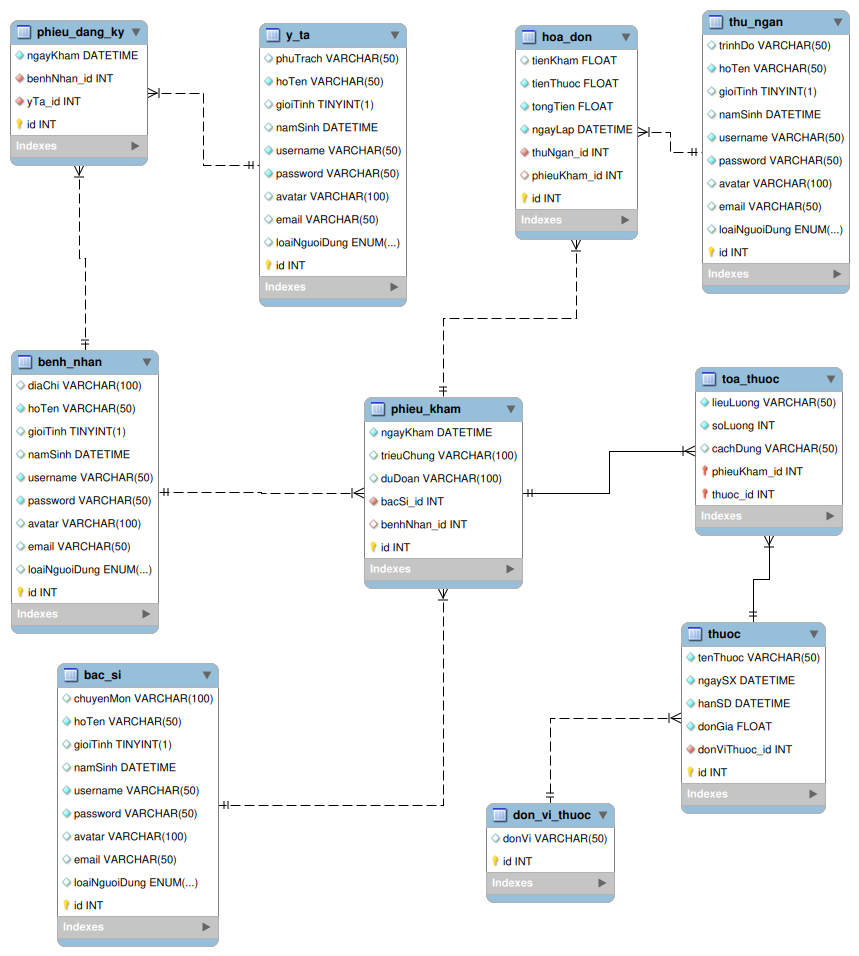
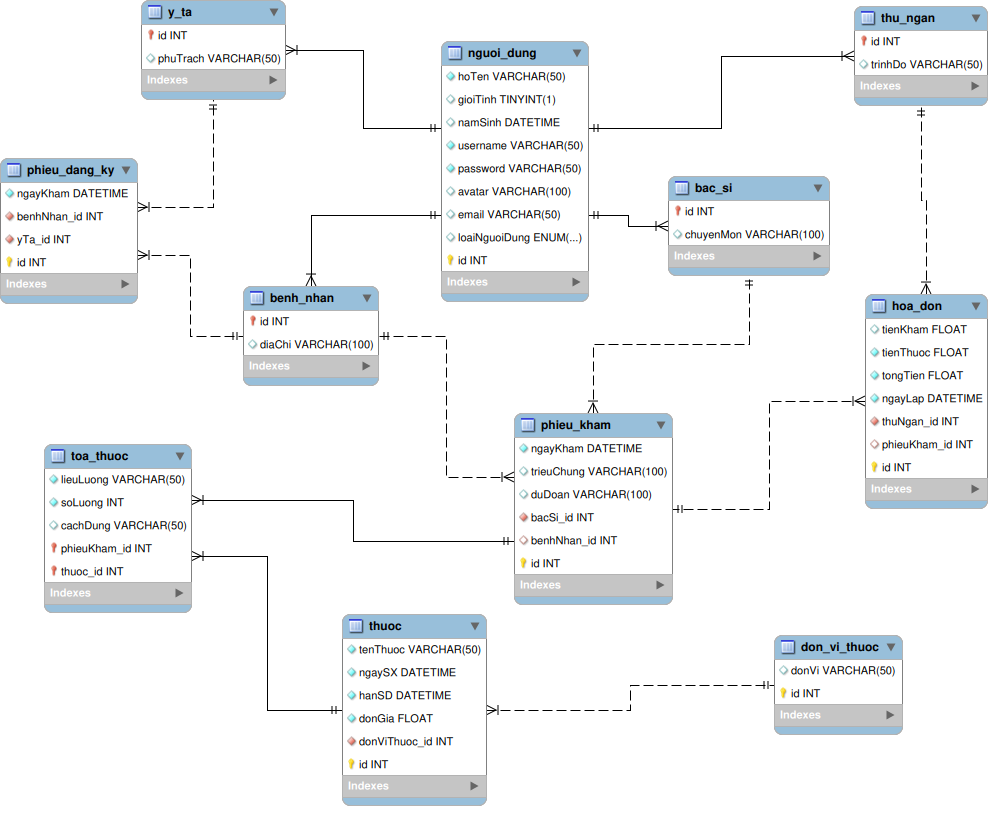
[Lan] - update login va register

diff --git a/server/server_app/templates/layout/header.html b/server/server_app/templates/layout/header.html
@@ -5,12 +5,12 @@
         <span class="self-center text-2xl font-semibold whitespace-nowrap dark:text-white">LT Clinic</span>
     </a>
     <div class="flex items-center md:order-2 space-x-3 md:space-x-0 rtl:space-x-reverse">
-        <button type="button" class="flex text-sm bg-gray-800 rounded-full md:me-0 focus:ring-4 focus:ring-gray-300 dark:focus:ring-gray-600" id="user-menu-button" aria-expanded="false" data-dropdown-toggle="user-dropdown" data-dropdown-placement="bottom">
+        <!-- <button type="button" class="flex text-sm bg-gray-800 rounded-full md:me-0 focus:ring-4 focus:ring-gray-300 dark:focus:ring-gray-600" id="user-menu-button" aria-expanded="false" data-dropdown-toggle="user-dropdown" data-dropdown-placement="bottom">
           <span class="sr-only">Open user menu</span>
           <img class="w-8 h-8 rounded-full" src="/docs/images/people/profile-picture-3.jpg" alt="user photo">
-        </button>
+        </button> -->
         <!-- User -->
-        <div class="z-50 hidden my-4 text-base list-none bg-white divide-y divide-gray-100 rounded-lg shadow dark:bg-gray-700 dark:divide-gray-600" id="user-dropdown">
+        <!-- <div class="z-50 hidden my-4 text-base list-none bg-white divide-y divide-gray-100 rounded-lg shadow dark:bg-gray-700 dark:divide-gray-600" id="user-dropdown">
           <div class="px-4 py-3">
             <span class="block text-sm text-gray-900 dark:text-white">Bonnie Green</span>
             <span class="block text-sm  text-gray-500 truncate dark:text-gray-400">name@flowbite.com</span>
@@ -29,7 +29,7 @@
               <a href="#" class="block px-4 py-2 text-sm text-gray-700 hover:bg-gray-100 dark:hover:bg-gray-600 dark:text-gray-200 dark:hover:text-white">Sign out</a>
             </li>
           </ul>
-        </div>
+        </div> -->
         <!--  -->
         <button data-collapse-toggle="navbar-user" type="button" class="inline-flex items-center p-2 w-10 h-10 justify-center text-sm text-gray-500 rounded-lg md:hidden hover:bg-gray-100 focus:outline-none focus:ring-2 focus:ring-gray-200 dark:text-gray-400 dark:hover:bg-gray-700 dark:focus:ring-gray-600" aria-controls="navbar-user" aria-expanded="false">
           <span class="sr-only">Open main menu</span>
@@ -49,12 +49,19 @@
           <li>
             <a href="#" class="block py-2 px-3 text-gray-900 rounded hover:bg-gray-100 md:hover:bg-transparent md:hover:text-blue-700 md:p-0 dark:text-white md:dark:hover:text-blue-500 dark:hover:bg-gray-700 dark:hover:text-white md:dark:hover:bg-transparent dark:border-gray-700">Thanh toán hóa đơn</a>
           </li>
+          {% if current_user.is_authenticated %}
+
           <li>
-            <a href="#" class="block py-2 px-3 text-gray-900 rounded hover:bg-gray-100 md:hover:bg-transparent md:hover:text-blue-700 md:p-0 dark:text-white md:dark:hover:text-blue-500 dark:hover:bg-gray-700 dark:hover:text-white md:dark:hover:bg-transparent dark:border-gray-700">Đăng ký</a>
+            <a href="/logout" class="block py-2 px-3 text-gray-900 rounded hover:bg-gray-100 md:hover:bg-transparent md:hover:text-blue-700 md:p-0 dark:text-white md:dark:hover:text-blue-500 dark:hover:bg-gray-700 dark:hover:text-white md:dark:hover:bg-transparent dark:border-gray-700">Đăng xuất</a>
+          </li>
+          {% else %}
+          <li>
+            <a href="/register" class="block py-2 px-3 text-gray-900 rounded hover:bg-gray-100 md:hover:bg-transparent md:hover:text-blue-700 md:p-0 dark:text-white md:dark:hover:text-blue-500 dark:hover:bg-gray-700 dark:hover:text-white md:dark:hover:bg-transparent dark:border-gray-700">Đăng ký</a>
           </li>
           <li>
-            <a href="#" class="block py-2 px-3 text-gray-900 rounded hover:bg-gray-100 md:hover:bg-transparent md:hover:text-blue-700 md:p-0 dark:text-white md:dark:hover:text-blue-500 dark:hover:bg-gray-700 dark:hover:text-white md:dark:hover:bg-transparent dark:border-gray-700">Đăng nhập</a>
+            <a href="/login" class="block py-2 px-3 text-gray-900 rounded hover:bg-gray-100 md:hover:bg-transparent md:hover:text-blue-700 md:p-0 dark:text-white md:dark:hover:text-blue-500 dark:hover:bg-gray-700 dark:hover:text-white md:dark:hover:bg-transparent dark:border-gray-700">Đăng nhập</a>
           </li>
+          {% endif %}
         </ul>
       </div>
     </div>

diff --git a/server/server_app/templates/register_page.html b/server/server_app/templates/register_page.html
@@ -1,0 +1,44 @@
+{% extends 'layout/base.html' %}
+
+{% block title %}Đăng ký tài khoản{% endblock %}
+
+{% block content %}
+{% if err_msg %}
+<div class="bg-red-100 border border-red-400 text-red-700 px-4 py-2 rounded-md shadow-md">
+    <p>{{ err_msg }}</p>
+</div>
+{% endif %}
+
+<div class="flex justify-center items-center h-screen">
+    <div class="bg-white p-8 rounded shadow-md w-80">
+        <h2 class="text-2xl font-semibold mb-4 text-center">Đăng ký tài khoản</h2>
+        <form method="post" action="{{ url_for('user_register') }}" enctype="multipart/form-data">
+            <div class="mb-4">
+                <label for="name" class="block text-gray-700 text-sm font-bold mb-2">Họ và tên</label>
+                <input type="text" id="name" name="name" class="border border-gray-300 rounded-lg px-3 py-2 w-full focus:outline-none focus:border-blue-500" required>
+            </div>
+            <div class="mb-4">
+                <label for="username" class="block text-gray-700 text-sm font-bold mb-2">Tên đăng nhập</label>
+                <input type="text" id="username" name="username" class="border border-gray-300 rounded-lg px-3 py-2 w-full focus:outline-none focus:border-blue-500" required>
+            </div>
+            <div class="mb-4">
+                <label for="password" class="block text-gray-700 text-sm font-bold mb-2">Mật khẩu</label>
+                <input type="password" id="password" name="password" class="border border-gray-300 rounded-lg px-3 py-2 w-full focus:outline-none focus:border-blue-500" required>
+            </div>
+            <div class="mb-4">
+                <label for="confirm" class="block text-gray-700 text-sm font-bold mb-2">Xác nhận mật khẩu</label>
+                <input type="password" id="confirm" name="confirm" class="border border-gray-300 rounded-lg px-3 py-2 w-full focus:outline-none focus:border-blue-500" required>
+            </div>
+            <div class="flex justify-center">
+                <button type="submit" value="Đăng ký" class="bg-blue-500 hover:bg-blue-700 text-white font-bold py-2 px-4 rounded focus:outline-none focus:shadow-outline">Đăng ký</button>
+            </div>
+        </form>
+        <div class="mx-auto flex justify-center mt-2">
+            <div class="text-gray-900 dark:text-black text-center">
+                <span>Đã có tài khoản? </span>
+                <a href="/login" class="text-blue-700 dark:text-blue-500 hover:underline">Đăng nhập tại đây</a>
+            </div>
+          </div>
+    </div>
+</div>
+{% endblock %}

diff --git a/server/server_app/templates/admin/admin_page.html b/server/server_app/templates/admin/admin_page.html
@@ -1,16 +1,18 @@
-{% extends 'layout/base.html' %}
+{% extends 'admin/base.html' %}
 
-{% block title %}Đăng nhập{% endblock %}
-
-{% block content %}
+{% block body %}
 {% if err_msg %}
 <div class="bg-red-100 border border-red-400 text-red-700 px-4 py-2 rounded-md shadow-md">
     <p>{{ err_msg }}</p>
 </div>
 {% endif %}
+
+{% if current_user.is_authenticated %}
+
+{% else %}
 <div class="flex justify-center items-center h-screen">
   <div class="bg-white p-8 rounded shadow-md w-80">
-      <h2 class="text-2xl font-semibold mb-4 text-center">Đăng nhập</h2>
+      <h2 class="text-2xl font-semibold mb-4 text-center">Đăng nhập quản trị</h2>
       <form method="post">
           <div class="mb-4">
               <label for="username" class="block text-gray-700 text-sm font-bold mb-2">Tên đăng nhập</label>
@@ -24,12 +26,7 @@
               <button type="submit" value="Đăng nhập" class="bg-blue-500 hover:bg-blue-700 text-white font-bold py-2 px-4 rounded focus:outline-none focus:shadow-outline">Đăng nhập</button>
           </div>
       </form>
-      <div class="mx-auto flex justify-center mt-2">
-        <div class="text-gray-900 dark:text-black text-center">
-            <span>Chưa có tài khoản? </span>
-            <a href="/register" class="text-blue-700 dark:text-blue-500 hover:underline">Đăng ký tại đây</a>
-        </div>
-      </div>
   </div>
 </div>
+{% endif %}
 {% endblock %}

diff --git a/server/server_app/models.py b/server/server_app/models.py
@@ -16,8 +16,8 @@ class BaseModel(db.Model):
     __abstract__ = True
     id = Column(Integer, primary_key=True, autoincrement=True)
 
-class NguoiDung(BaseModel):
-    __abstract__ = True
+class NguoiDung(BaseModel, UserMixin):
+    __tablename__ = 'nguoi_dung'
     hoTen = Column(String(50), nullable=False)
     gioiTinh = Column(Boolean)
     namSinh = Column(DateTime)
@@ -27,39 +27,55 @@ class NguoiDung(BaseModel):
     email = Column(String(50))
     loaiNguoiDung = Column(Enum(Role))
 
-class BenhNhan(NguoiDung):
+    benhNhan = relationship("BenhNhan", uselist=False, back_populates="nguoiDung")
+    yTa = relationship("YTa", uselist=False, back_populates="nguoiDung")
+    bacSi = relationship("BacSi", uselist=False, back_populates="nguoiDung")
+    thuNgan = relationship("ThuNgan", uselist=False, back_populates="nguoiDung")
+
+    def __str__(self):
+        return self.name
+
+class BenhNhan(db.Model):
     __tablename__ = 'benh_nhan'
+    id = Column(Integer, ForeignKey("nguoi_dung.id"), primary_key=True)
     diaChi = Column(String(100))
 
     phieuDangKy = relationship('PhieuDangKy', backref='benhNhan', lazy=True)
     phieuKham = relationship("PhieuKham", uselist=False, back_populates="benhNhan")
+    nguoiDung = relationship("NguoiDung", back_populates="benhNhan")
     
     def __str__(self):
         return self.name
     
-class YTa(NguoiDung):
+class YTa(db.Model):
     __tablename__ = 'y_ta'
+    id = Column(Integer, ForeignKey("nguoi_dung.id"), primary_key=True)
     phuTrach = Column(String(50))
 
     phieuDangKy = relationship('PhieuDangKy', backref='yTa', lazy=True)
+    nguoiDung = relationship("NguoiDung", back_populates="yTa")
 
     def __str__(self):
         return self.name
     
-class BacSi(NguoiDung):
+class BacSi(db.Model):
     __tablename__ = 'bac_si'
+    id = Column(Integer, ForeignKey("nguoi_dung.id"), primary_key=True)
     chuyenMon = Column(String(100))
 
     phieuKham = relationship('PhieuKham', backref='bacSi', lazy=True)
+    nguoiDung = relationship("NguoiDung", back_populates="bacSi")
 
     def __str__(self):
         return self.name
     
-class ThuNgan(NguoiDung):
+class ThuNgan(db.Model):
     __tablename__ = 'thu_ngan'
+    id = Column(Integer, ForeignKey("nguoi_dung.id"), primary_key=True)
     trinhDo = Column(String(50))
 
     hoaDon = relationship('HoaDon', backref='thuNgan', lazy=True)
+    nguoiDung = relationship("NguoiDung", back_populates="thuNgan")
 
     def __str__(self):
         return self.name

diff --git a/server/server_app/controller.py b/server/server_app/controller.py
@@ -1,13 +1,56 @@
-from flask import render_template, url_for
-from server_app import app
+from flask import render_template, url_for, redirect, request
+from server_app import app, dao, login
+from flask_login import login_user, logout_user, login_required
 
 @app.route("/")
 def home_page():
     return render_template("home_page.html")
 
-@app.route("/login")
-def login_page():
-    return render_template("login_page.html")
+@app.route("/register", methods=['get', 'post'])
+def user_register():
+    err_msg = ""
+    if request.method.__eq__('POST'):
+        name = request.form.get('name')
+        username = request.form.get('username')
+        password = request.form.get('password')
+        confirm = request.form.get('confirm')
+        try:
+            if(password.strip().__eq__(confirm.strip())):
+                dao.add_user(name=name, username=username, password=password)
+                return redirect(url_for('user_login'))
+            else:
+                err_msg = 'Mật khẩu không khớp'
+        except Exception as ex:
+            err_msg = 'Hệ thống đang có lỗi' +str(ex)
+
+    return render_template("register_page.html", err_msg=err_msg)
+
+@app.route("/login", methods=['get', 'post'])
+def user_login():
+    err_msg = ''
+    if request.method.__eq__('POST'):
+        username = request.form.get('username')
+        password = request.form.get('password')
+
+        user = dao.check_login(username=username, password=password)
+
+        if user:
+            login_user(user=user) #current_user
+
+            return redirect(url_for('home_page'))
+        else:
+            err_msg = 'Username hoặc password không chính xác'
+
+    return render_template("login_page.html", err_msg=err_msg)
+
+@app.route('/logout')
+def user_signout():
+    logout_user()
+    return redirect(url_for('user_login'))
+
+@login.user_loader
+def user_load(user_id):
+    return dao.get_user_by_id(user_id=user_id)
 
 if __name__ == '__main__':
     app.run(debug=True)

diff --git a/server/server_app/dao.py b/server/server_app/dao.py
@@ -1,0 +1,30 @@
+from server_app import app, db
+from server_app.models import BenhNhan, YTa, BacSi, ThuNgan, NguoiDung, Role
+from sqlalchemy.orm.exc import NoResultFound
+import hashlib
+
+def add_user(name, username, password):
+    password = str(hashlib.md5(password.strip().encode('utf-8')).hexdigest())
+    user = NguoiDung(hoTen=name.strip(),
+                     username=username.strip(),
+                     password=password,
+                     loaiNguoiDung=Role.Patient)
+    db.session.add(user)
+    db.session.commit()
+
+def check_login(username, password):
+    if username and password: 
+        password = str(hashlib.md5(password.strip().encode('utf-8')).hexdigest())   
+        # Tìm kiếm người dùng dựa trên tên đăng nhập
+        try:
+            user = NguoiDung.query.filter_by(username=username.strip()).one()
+        except NoResultFound:
+            return None  # Trả về None nếu không tìm thấy người dùng
+        
+        # Kiểm tra mật khẩu
+        if user.password == password:
+            return user  # Trả về đối tượng người dùng nếu thông tin đăng nhập hợp lệ
+        return None  # Trả về None nếu mật khẩu không khớp
+    
+def get_user_by_id(user_id):
+    return NguoiDung.query.get(user_id)

diff --git a/server/server_app/__init__.py b/server/server_app/__init__.py
@@ -10,7 +10,7 @@ app.config['SQLALCHEMY_TRACK_MODIFICATIONS'] = True
 
 db = SQLAlchemy(app=app)
 
-# login = LoginManager(app=app)
+login = LoginManager(app=app)
 
 # cloudinary.config(
 #     cloud_name = 'djga3njzi',
